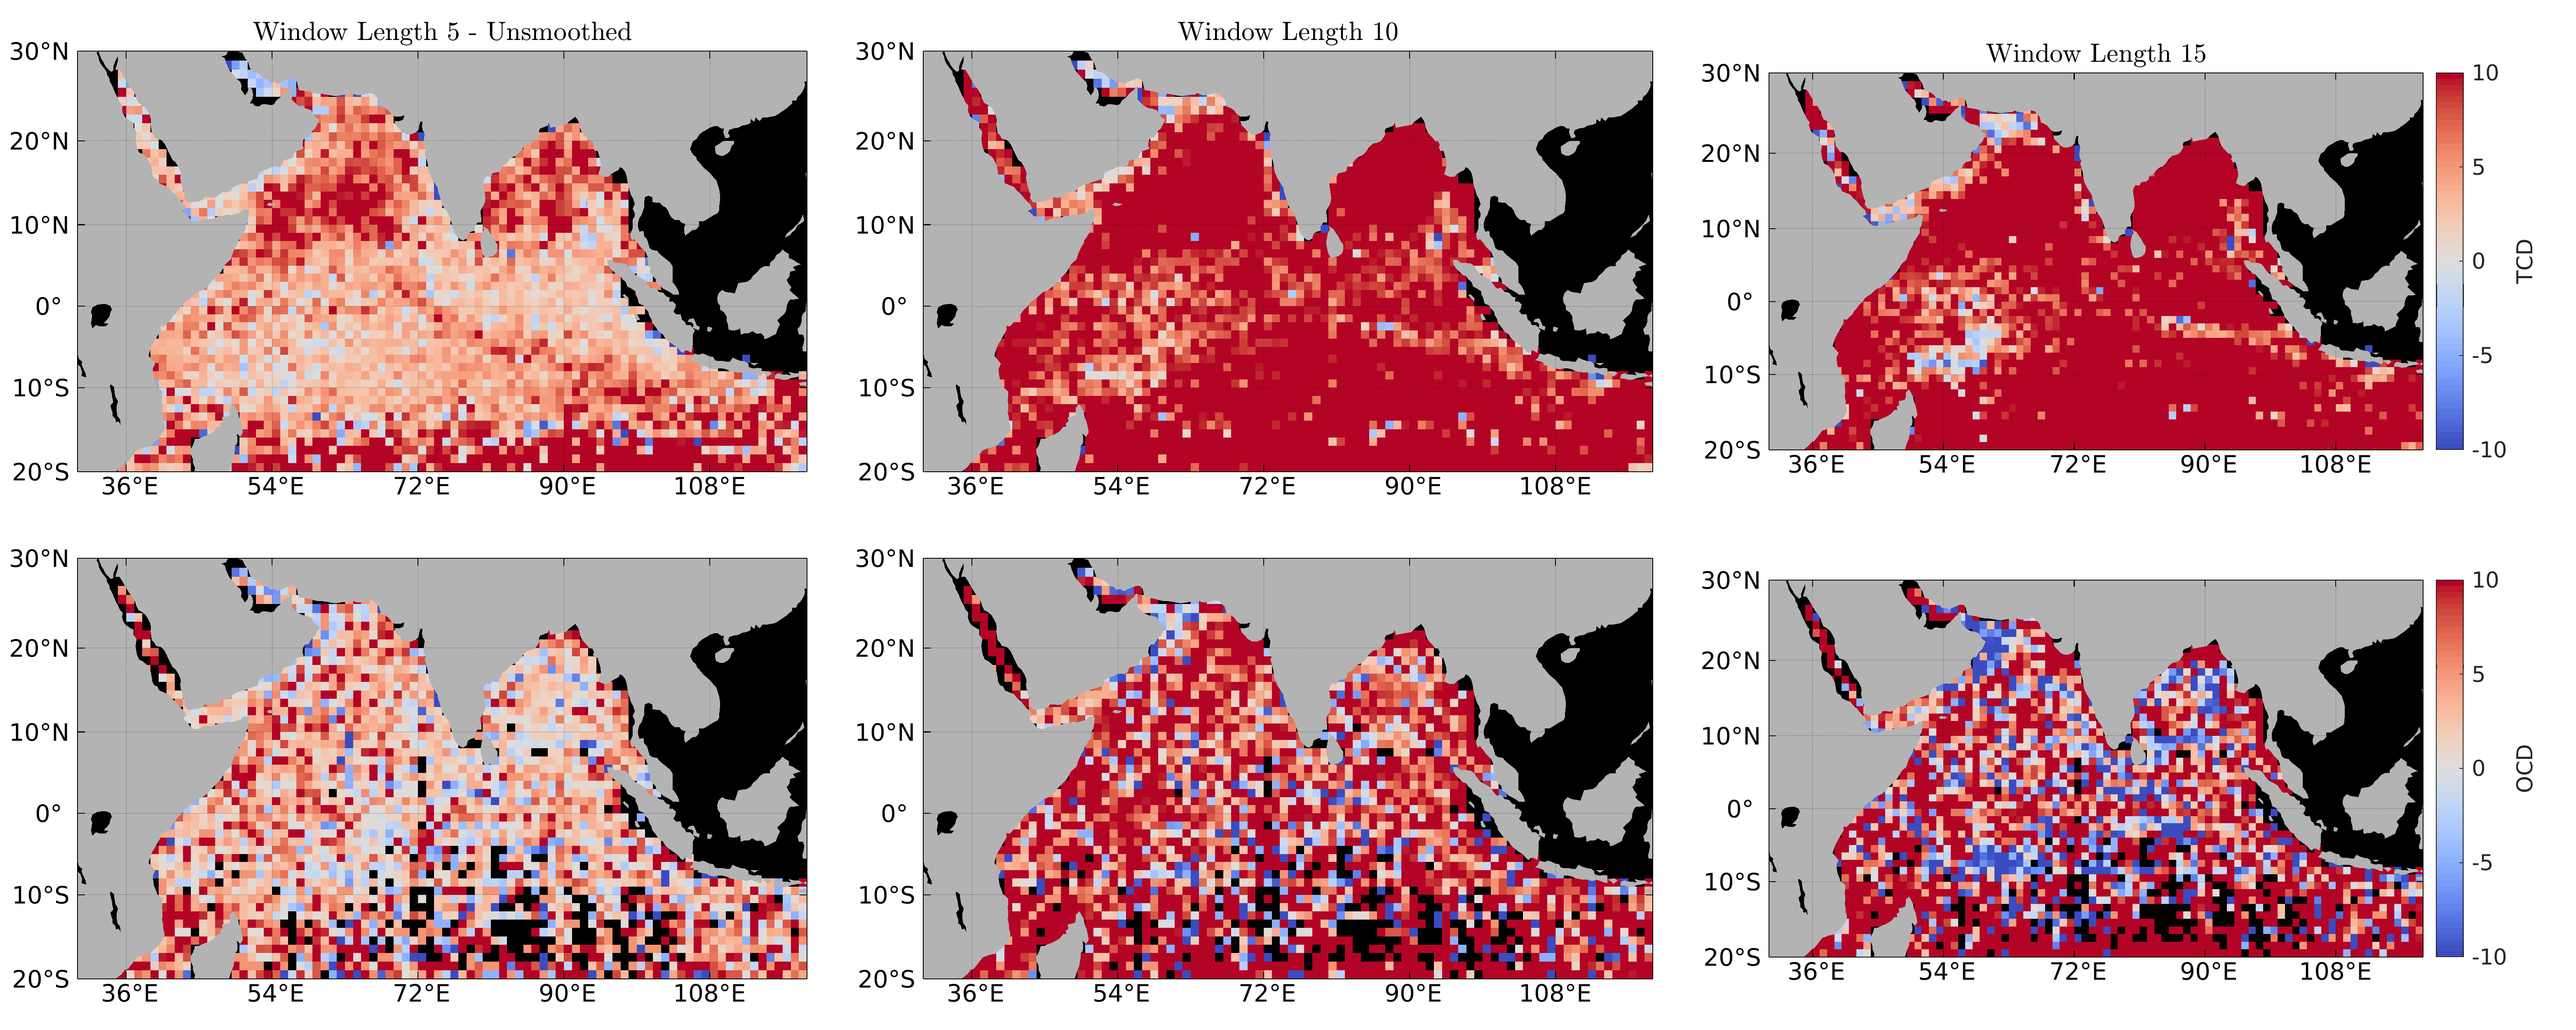
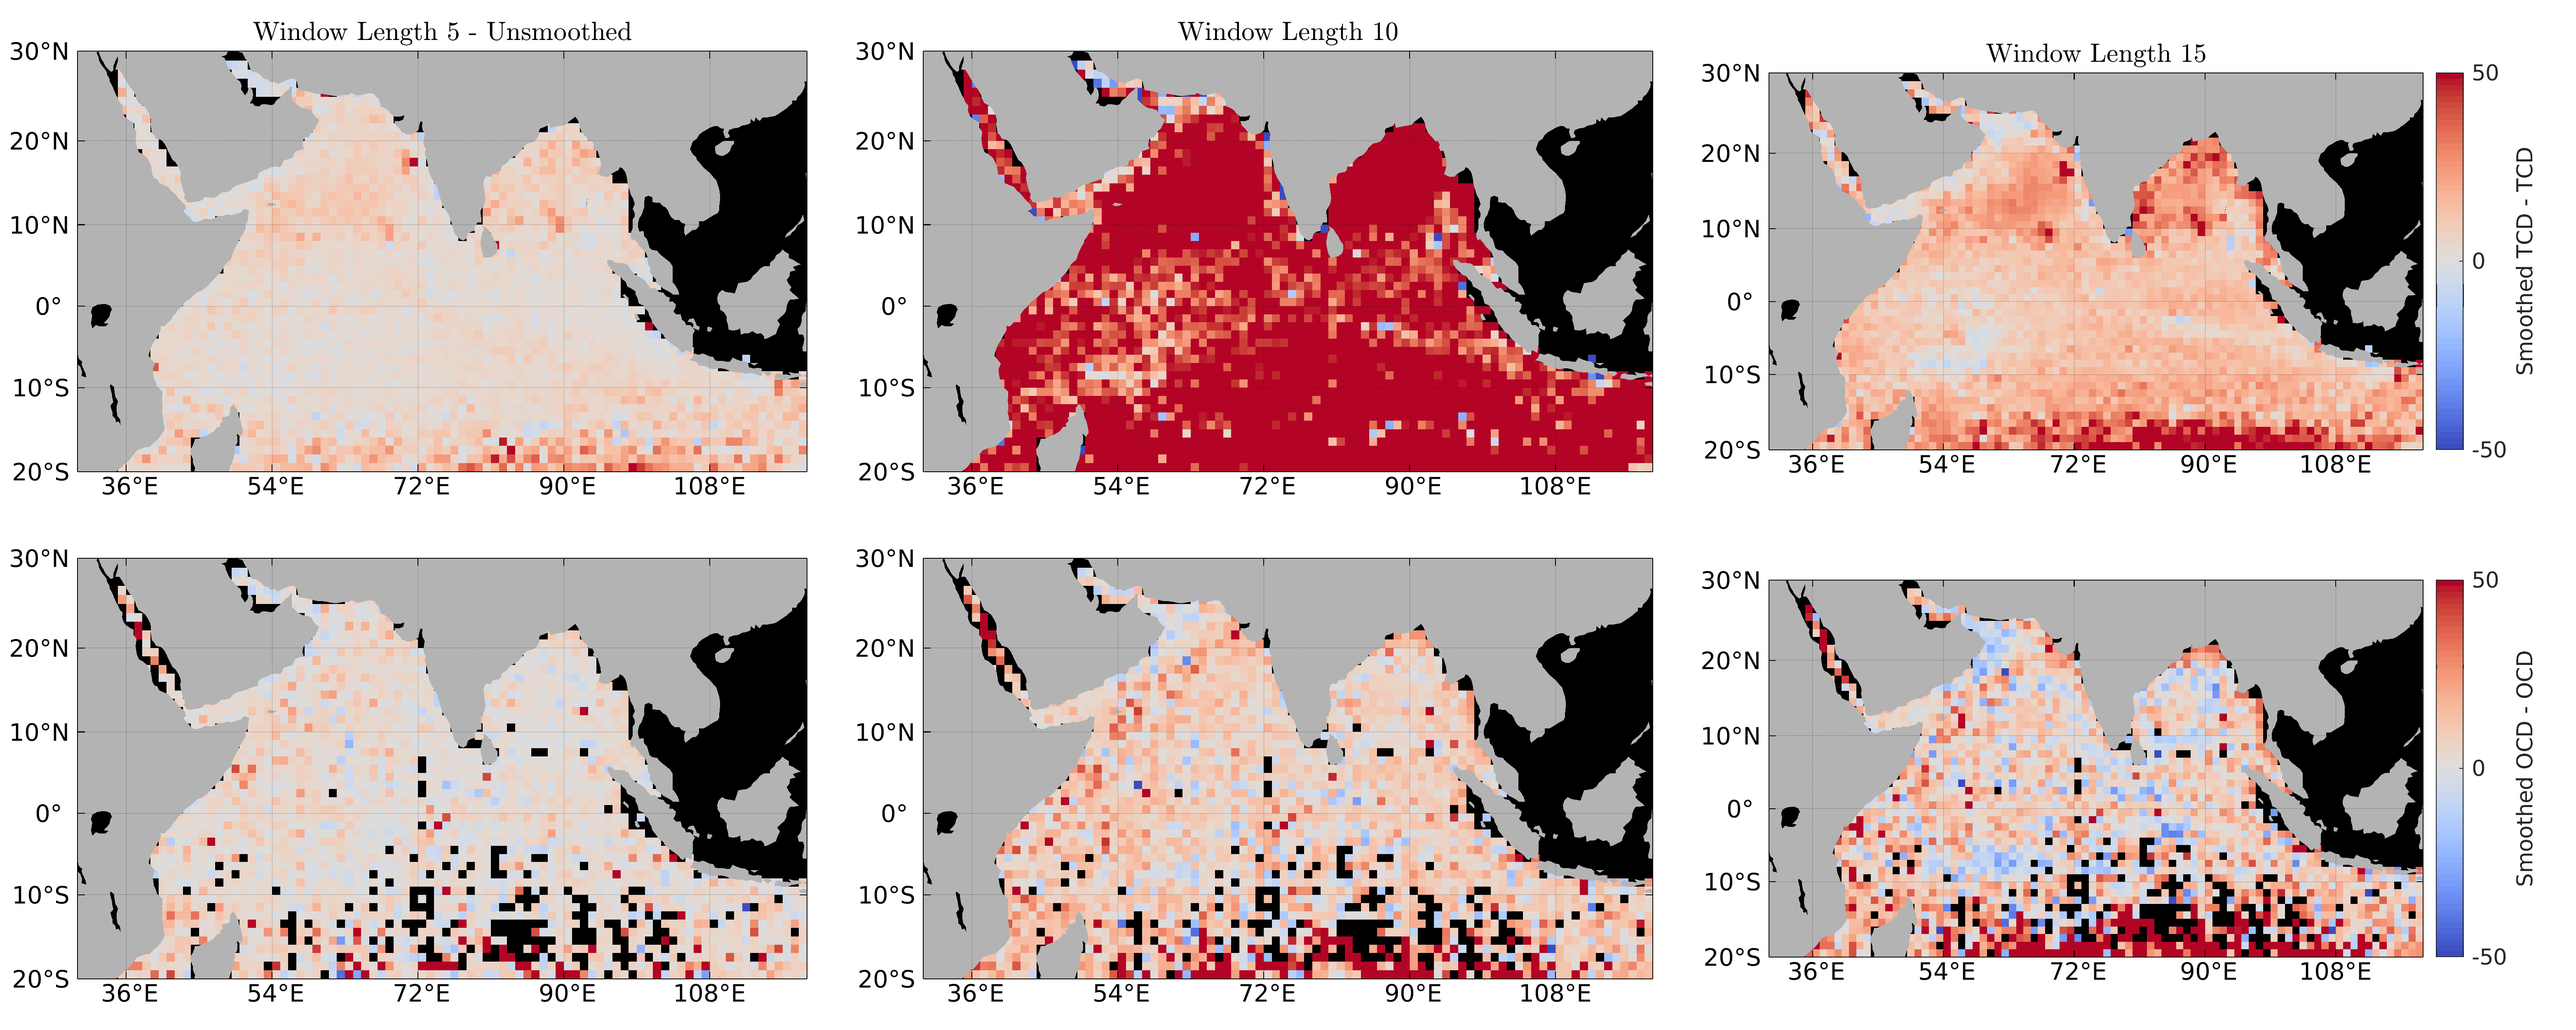
updates

diff --git a/Code/Initial_Testing/B_Vertical_Smoothing_Testing.m b/Code/Initial_Testing/B_Vertical_Smoothing_Testing.m
@@ -1,169 +1,169 @@
-% close all; clear all; clc; warning off;
-% %% Setup ==================================================================
-% %{
+close all; clear all; clc; warning off;
+%% Setup ==================================================================
+%{
+
+    This code applies quality control, reformats,10O
+
+%}
+%==========================================================================
+
+%--------------------------------------------------------------------------
+% Parameters
+%--------------------------------------------------------------------------
+
+plot_fig = 1;       % set to 1 to plot figs, 0 to supress
+qc_thresh = 5;     % the min no. of pts that must be in each profile
+
+pr = 305118; % AS = 305118 | double 305000 | bad one? 304100 | good ctd tcd 30000 | shelf 30400/30500
+% surface with not tcd really 306100 | goot tcd/ocd 306050 | confusing 306050 ;
+
+profiles = [266805,266810,304327,305118,304100,30000,30400,30500,306100,...
+    306108,306029,306053,306073,306050,306099];
+
+%--------------------------------------------------------------------------
+% Paths
+%--------------------------------------------------------------------------
+
+% define and add function path
+addpath(genpath('../../Local_Tools/'))
+
+% add data path
+addpath(genpath('../../Data/'))
+
+outfp = '../../Figures/Testing/Vertical_Smoothing/';
+indp = '../../Data/Testing/Processed/';
+
+%--------------------------------------------------------------------------
+% Filesnames
+%--------------------------------------------------------------------------
+
+infn = ['Profiles_qc_thresh_' num2str(qc_thresh) '_processed.mat'];
+outfn = ['Profiles_qc_thresh_' num2str(qc_thresh) '_processed.mat'];
+
+%--------------------------------------------------------------------------
+% Other
+%--------------------------------------------------------------------------
+
+% set default figure properties
+figprops;
+
+% if the output directory doesn't exist create it
+if ~exist(outfp, 'dir')
+    mkdir(outfp)
+end
+
+load([indp infn])
+
+%% Gradient Vertical Smoothing ============================================
+%{
+
+    This section calculates the largest negative (i.e. min) gradient for
+    each profile and counts it as the cline depth for various levels of
+    vertical smoothing using a moving mean.
+
+%}
+%==========================================================================
+
+% find one-sided differences
+diff_doxy = diff(doxy);
+diff_temp = diff(temp);
+diff_pres = diff(pres);
+
+ave_pres = 0.5.*(circshift(pres,-1) + pres);
+ave_pres = ave_pres(1:end-1);
+ave_pres = repmat(ave_pres, [1,size(diff_temp,2)]);
+
+grad_doxy = diff_doxy./diff_pres;
+grad_temp = diff_temp./diff_pres;
+
+% smooth the gradient with a running mean
+grad_doxy_sm_5 = movmean(grad_doxy,5,'omitnan');
+grad_temp_sm_5 = movmean(grad_temp,5,'omitnan');
+
+grad_doxy_sm_10 = movmean(grad_doxy,10,'omitnan');
+grad_temp_sm_10 = movmean(grad_temp,10,'omitnan');
+
+grad_doxy_sm_15 = movmean(grad_doxy,15,'omitnan');
+grad_temp_sm_15 = movmean(grad_temp,15,'omitnan');
+
+%% TCD and OCD ============================================================
+%{
+
+    This section calculates the largest negative (i.e. min) gradient for
+    each profile and counts it as the cline depth for various levels of
+    vertical smoothing using a moving mean.
+
+%}
+%==========================================================================
+
+
+% find the largest negative gradient (min)
+% [grad_temp_max,grad_temp_ind] = max(abs(grad_temp));
+% [grad_doxy_max,grad_doxy_ind] = max(abs(grad_doxy));
 % 
-%     This code applies quality control, reformats,10O
+% [grad_temp_max_sm_5,grad_temp_ind_sm_5] = max(abs(grad_temp_sm_5));
+% [grad_doxy_max_sm_5,grad_doxy_ind_sm_5] = max(abs(grad_doxy_sm_5));
 % 
-% %}
-% %==========================================================================
+% [grad_temp_max_sm_10,grad_temp_ind_sm_10] = max(abs(grad_temp_sm_10));
+% [grad_doxy_max_sm_10,grad_doxy_ind_sm_10] = max(abs(grad_doxy_sm_10));
 % 
-% %--------------------------------------------------------------------------
-% % Parameters
-% %--------------------------------------------------------------------------
-% 
-% plot_fig = 1;       % set to 1 to plot figs, 0 to supress
-% qc_thresh = 5;     % the min no. of pts that must be in each profile
-% 
-% pr = 305118; % AS = 305118 | double 305000 | bad one? 304100 | good ctd tcd 30000 | shelf 30400/30500
-% % surface with not tcd really 306100 | goot tcd/ocd 306050 | confusing 306050 ;
-% 
-% profiles = [266805,266810,304327,305118,304100,30000,30400,30500,306100,...
-%     306108,306029,306053,306073,306050,306099];
-% 
-% %--------------------------------------------------------------------------
-% % Paths
-% %--------------------------------------------------------------------------
-% 
-% % define and add function path
-% addpath(genpath('../../Local_Tools/'))
-% 
-% % add data path
-% addpath(genpath('../../Data/'))
-% 
-% outfp = '../../Figures/Testing/Vertical_Smoothing/';
-% indp = '../../Data/Testing/Processed/';
-% 
-% %--------------------------------------------------------------------------
-% % Filesnames
-% %--------------------------------------------------------------------------
-% 
-% infn = ['Profiles_qc_thresh_' num2str(qc_thresh) '_processed.mat'];
-% outfn = ['Profiles_qc_thresh_' num2str(qc_thresh) '_processed.mat'];
-% 
-% %--------------------------------------------------------------------------
-% % Other
-% %--------------------------------------------------------------------------
-% 
-% % set default figure properties
-% figprops;
-% 
-% % if the output directory doesn't exist create it
-% if ~exist(outfp, 'dir')
-%     mkdir(outfp)
-% end
-% 
-% load([indp infn])
-% 
-% %% Gradient Vertical Smoothing ============================================
-% %{
-% 
-%     This section calculates the largest negative (i.e. min) gradient for
-%     each profile and counts it as the cline depth for various levels of
-%     vertical smoothing using a moving mean.
-% 
-% %}
-% %==========================================================================
-% 
-% % find one-sided differences
-% diff_doxy = diff(doxy);
-% diff_temp = diff(temp);
-% diff_pres = diff(pres);
-% 
-% ave_pres = 0.5.*(circshift(pres,-1) + pres);
-% ave_pres = ave_pres(1:end-1);
-% ave_pres = repmat(ave_pres, [1,size(diff_temp,2)]);
-% 
-% grad_doxy = diff_doxy./diff_pres;
-% grad_temp = diff_temp./diff_pres;
-% 
-% % smooth the gradient with a running mean
-% grad_doxy_sm_5 = movmean(grad_doxy,5,'omitnan');
-% grad_temp_sm_5 = movmean(grad_temp,5,'omitnan');
-% 
-% grad_doxy_sm_10 = movmean(grad_doxy,10,'omitnan');
-% grad_temp_sm_10 = movmean(grad_temp,10,'omitnan');
-% 
-% grad_doxy_sm_15 = movmean(grad_doxy,15,'omitnan');
-% grad_temp_sm_15 = movmean(grad_temp,15,'omitnan');
-% 
-% %% TCD and OCD ============================================================
-% %{
-% 
-%     This section calculates the largest negative (i.e. min) gradient for
-%     each profile and counts it as the cline depth for various levels of
-%     vertical smoothing using a moving mean.
-% 
-% %}
-% %==========================================================================
-% 
-% 
-% % find the largest negative gradient (min)
-% % [grad_temp_max,grad_temp_ind] = max(abs(grad_temp));
-% % [grad_doxy_max,grad_doxy_ind] = max(abs(grad_doxy));
-% % 
-% % [grad_temp_max_sm_5,grad_temp_ind_sm_5] = max(abs(grad_temp_sm_5));
-% % [grad_doxy_max_sm_5,grad_doxy_ind_sm_5] = max(abs(grad_doxy_sm_5));
-% % 
-% % [grad_temp_max_sm_10,grad_temp_ind_sm_10] = max(abs(grad_temp_sm_10));
-% % [grad_doxy_max_sm_10,grad_doxy_ind_sm_10] = max(abs(grad_doxy_sm_10));
-% % 
-% % [grad_temp_max_sm_15,grad_temp_ind_sm_15] = max(abs(grad_temp_sm_15));
-% % [grad_doxy_max_sm_15,grad_doxy_ind_sm_15] = max(abs(grad_doxy_sm_15));
-% 
-% [grad_temp_min,grad_temp_ind] = min(grad_temp);
-% [grad_doxy_min,grad_doxy_ind] = min(grad_doxy);
-% 
-% [grad_temp_min_sm_5,grad_temp_ind_sm_5] = min(grad_temp_sm_5);
-% [grad_doxy_min_sm_5,grad_doxy_ind_sm_5] = min(grad_doxy_sm_5);
-% 
-% [grad_temp_min_sm_10,grad_temp_ind_sm_10] = min(grad_temp_sm_10);
-% [grad_doxy_min_sm_10,grad_doxy_ind_sm_10] = min(grad_doxy_sm_10);
-% 
-% [grad_temp_min_sm_15,grad_temp_ind_sm_15] = min(grad_temp_sm_15);
-% [grad_doxy_min_sm_15,grad_doxy_ind_sm_15] = min(grad_doxy_sm_15);
-% 
-% % take average pressures of these values
-% TCD_grad = ave_pres(grad_temp_ind);
-% OCD_grad = ave_pres(grad_doxy_ind);
-% 
-% TCD_grad_sm_5 = ave_pres(grad_temp_ind_sm_5);
-% OCD_grad_sm_5 = ave_pres(grad_doxy_ind_sm_5);
-% 
-% TCD_grad_sm_10 = ave_pres(grad_temp_ind_sm_10);
-% OCD_grad_sm_10 = ave_pres(grad_doxy_ind_sm_10);
-% 
-% TCD_grad_sm_15 = ave_pres(grad_temp_ind_sm_15);
-% OCD_grad_sm_15 = ave_pres(grad_doxy_ind_sm_15);
-% 
-% % set the places where there wasn't a minimum to NaN
-% TCD_grad(isnan(grad_temp_min))=nan;
-% OCD_grad(isnan(grad_doxy_min))=nan;
-% 
-% TCD_grad_sm_5(isnan(grad_temp_min_sm_5))=nan;
-% OCD_grad_sm_5(isnan(grad_doxy_min_sm_5))=nan;
-% 
-% TCD_grad_sm_10(isnan(grad_temp_min_sm_10))=nan;
-% OCD_grad_sm_10(isnan(grad_doxy_min_sm_10))=nan;
-% 
-% TCD_grad_sm_15(isnan(grad_temp_min_sm_15))=nan;
-% OCD_grad_sm_15(isnan(grad_doxy_min_sm_15))=nan;
-% 
-% % put into 1 degree bins
-% 
-% par.binwid = 1;
-% 
-% [TCD_grad_grid,TCD_grad_grid_ave,TCD_grad_grid_sd,bincounts_T,lon_grid,lat_grid] = latlon_var_bin(TCD_grad,lon,lat,par);
-% [OCD_grad_grid,OCD_grad_grid_ave,OCD_grad_grid_sd,bincounts_O,~,~] = latlon_var_bin(OCD_grad,lon,lat,par);
-% 
-% [TCD_grad_grid_sm_5,TCD_grad_grid_ave_sm_5,TCD_grad_grid_sd_sm_5,bincounts_T_sm_5,~,~] = latlon_var_bin(TCD_grad_sm_5,lon,lat,par);
-% [OCD_grad_grid_sm_5,OCD_grad_grid_ave_sm_5,OCD_grad_grid_sd_sm_5,bincounts_O_sm_5,~,~] = latlon_var_bin(OCD_grad_sm_5,lon,lat,par);
-% 
-% [TCD_grad_grid_sm_10,TCD_grad_grid_ave_sm_10,TCD_grad_grid_sd_sm_10,bincounts_T_sm_,~,~] = latlon_var_bin(TCD_grad_sm_10,lon,lat,par);
-% [OCD_grad_grid_sm_10,OCD_grad_grid_ave_sm_10,OCD_grad_grid_sd_sm_10,bincounts_O_sm_10,~,~] = latlon_var_bin(OCD_grad_sm_10,lon,lat,par);
-% 
-% [TCD_grad_grid_sm_15,TCD_grad_grid_ave_sm_15,TCD_grad_grid_sd_sm_15,bincounts_T_sm_15,~,~] = latlon_var_bin(TCD_grad_sm_15,lon,lat,par);
-% [OCD_grad_grid_sm_15,OCD_grad_grid_ave_sm_15,OCD_grad_grid_sd_sm_15,bincounts_O_sm_15,~,~] = latlon_var_bin(OCD_grad_sm_15,lon,lat,par);
-% 
+% [grad_temp_max_sm_15,grad_temp_ind_sm_15] = max(abs(grad_temp_sm_15));
+% [grad_doxy_max_sm_15,grad_doxy_ind_sm_15] = max(abs(grad_doxy_sm_15));
+
+[grad_temp_min,grad_temp_ind] = min(grad_temp);
+[grad_doxy_min,grad_doxy_ind] = min(grad_doxy);
+
+[grad_temp_min_sm_5,grad_temp_ind_sm_5] = min(grad_temp_sm_5);
+[grad_doxy_min_sm_5,grad_doxy_ind_sm_5] = min(grad_doxy_sm_5);
+
+[grad_temp_min_sm_10,grad_temp_ind_sm_10] = min(grad_temp_sm_10);
+[grad_doxy_min_sm_10,grad_doxy_ind_sm_10] = min(grad_doxy_sm_10);
+
+[grad_temp_min_sm_15,grad_temp_ind_sm_15] = min(grad_temp_sm_15);
+[grad_doxy_min_sm_15,grad_doxy_ind_sm_15] = min(grad_doxy_sm_15);
+
+% take average pressures of these values
+TCD_grad = ave_pres(grad_temp_ind);
+OCD_grad = ave_pres(grad_doxy_ind);
+
+TCD_grad_sm_5 = ave_pres(grad_temp_ind_sm_5);
+OCD_grad_sm_5 = ave_pres(grad_doxy_ind_sm_5);
+
+TCD_grad_sm_10 = ave_pres(grad_temp_ind_sm_10);
+OCD_grad_sm_10 = ave_pres(grad_doxy_ind_sm_10);
+
+TCD_grad_sm_15 = ave_pres(grad_temp_ind_sm_15);
+OCD_grad_sm_15 = ave_pres(grad_doxy_ind_sm_15);
+
+% set the places where there wasn't a minimum to NaN
+TCD_grad(isnan(grad_temp_min))=nan;
+OCD_grad(isnan(grad_doxy_min))=nan;
+
+TCD_grad_sm_5(isnan(grad_temp_min_sm_5))=nan;
+OCD_grad_sm_5(isnan(grad_doxy_min_sm_5))=nan;
+
+TCD_grad_sm_10(isnan(grad_temp_min_sm_10))=nan;
+OCD_grad_sm_10(isnan(grad_doxy_min_sm_10))=nan;
+
+TCD_grad_sm_15(isnan(grad_temp_min_sm_15))=nan;
+OCD_grad_sm_15(isnan(grad_doxy_min_sm_15))=nan;
+
+% put into 1 degree bins
+
+par.binwid = 1;
+
+[TCD_grad_grid,TCD_grad_grid_ave,TCD_grad_grid_sd,bincounts_T,lon_grid,lat_grid] = latlon_var_bin(TCD_grad,lon,lat,par);
+[OCD_grad_grid,OCD_grad_grid_ave,OCD_grad_grid_sd,bincounts_O,~,~] = latlon_var_bin(OCD_grad,lon,lat,par);
+
+[TCD_grad_grid_sm_5,TCD_grad_grid_ave_sm_5,TCD_grad_grid_sd_sm_5,bincounts_T_sm_5,~,~] = latlon_var_bin(TCD_grad_sm_5,lon,lat,par);
+[OCD_grad_grid_sm_5,OCD_grad_grid_ave_sm_5,OCD_grad_grid_sd_sm_5,bincounts_O_sm_5,~,~] = latlon_var_bin(OCD_grad_sm_5,lon,lat,par);
+
+[TCD_grad_grid_sm_10,TCD_grad_grid_ave_sm_10,TCD_grad_grid_sd_sm_10,bincounts_T_sm_,~,~] = latlon_var_bin(TCD_grad_sm_10,lon,lat,par);
+[OCD_grad_grid_sm_10,OCD_grad_grid_ave_sm_10,OCD_grad_grid_sd_sm_10,bincounts_O_sm_10,~,~] = latlon_var_bin(OCD_grad_sm_10,lon,lat,par);
+
+[TCD_grad_grid_sm_15,TCD_grad_grid_ave_sm_15,TCD_grad_grid_sd_sm_15,bincounts_T_sm_15,~,~] = latlon_var_bin(TCD_grad_sm_15,lon,lat,par);
+[OCD_grad_grid_sm_15,OCD_grad_grid_ave_sm_15,OCD_grad_grid_sd_sm_15,bincounts_O_sm_15,~,~] = latlon_var_bin(OCD_grad_sm_15,lon,lat,par);
+
 
 % plot binned values
 figure('visible','off')
@@ -318,7 +318,7 @@ c = colorbar;
 colormap(coolwarm);
 delete(colorbar);
 title('Window Length 5 - Unsmoothed')
-caxis([-10,10])
+caxis([-50,50])
 
 % window 5 smoothed OCD
 subaxis(2,3,4, 'Spacing', sp, 'Padding', pad,'Margin',mar)
@@ -331,7 +331,7 @@ m_grid('background color','k');
 c = colorbar;
 colormap(coolwarm);
 delete(colorbar);
-caxis([-10,10])
+caxis([-50,50])
 
 % window 10 smoothed TCD
 subaxis(2,3,2, 'Spacing', sp, 'Padding', pad,'Margin',mar)
@@ -358,7 +358,7 @@ m_grid('background color','k');
 c = colorbar;
 colormap(coolwarm);
 delete(colorbar);
-caxis([-10,10])
+caxis([-50,50])
 
 
 % window 15 smoothed TCD
@@ -370,10 +370,10 @@ m_pcolor(lon_grid,lat_grid,TCD_grad_grid_ave_sm_15-TCD_grad_grid_ave); shading f
 m_coast('patch',[.7 .7 .7],'edgecolor','none');
 m_grid('background color','k');
 c = colorbar;
-ylabel(c,'TCD')
+ylabel(c,'Smoothed TCD - TCD')
 colormap(coolwarm);
 title('Window Length 15')
-caxis([-10,10])
+caxis([-50,50])
 
 % window 15 smoothed OCD
 subaxis(2,3,6, 'Spacing', sp, 'Padding', pad,'Margin',mar)
@@ -384,9 +384,9 @@ m_pcolor(lon_grid,lat_grid,OCD_grad_grid_ave_sm_15-OCD_grad_grid_ave); shading f
 m_coast('patch',[.7 .7 .7],'edgecolor','none');
 m_grid('background color','k');
 c = colorbar;
-ylabel(c,'OCD')
+ylabel(c,'Smoothed OCD - OCD')
 colormap(coolwarm);
-caxis([-10,10])
+caxis([-50,50])
 
 
 
